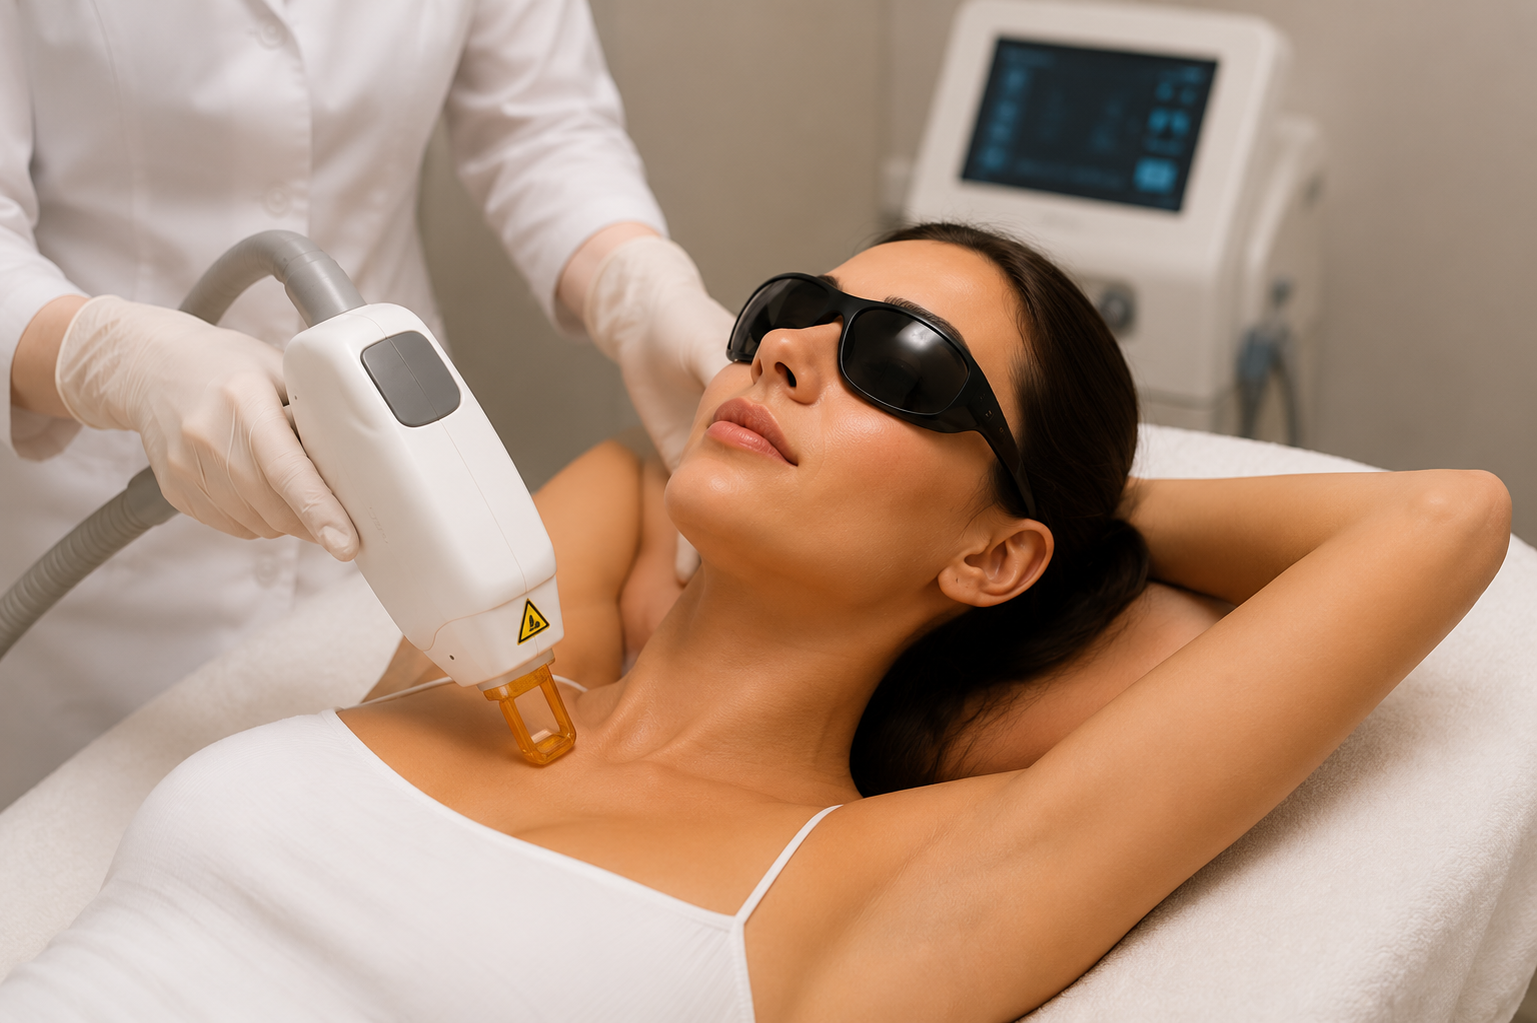
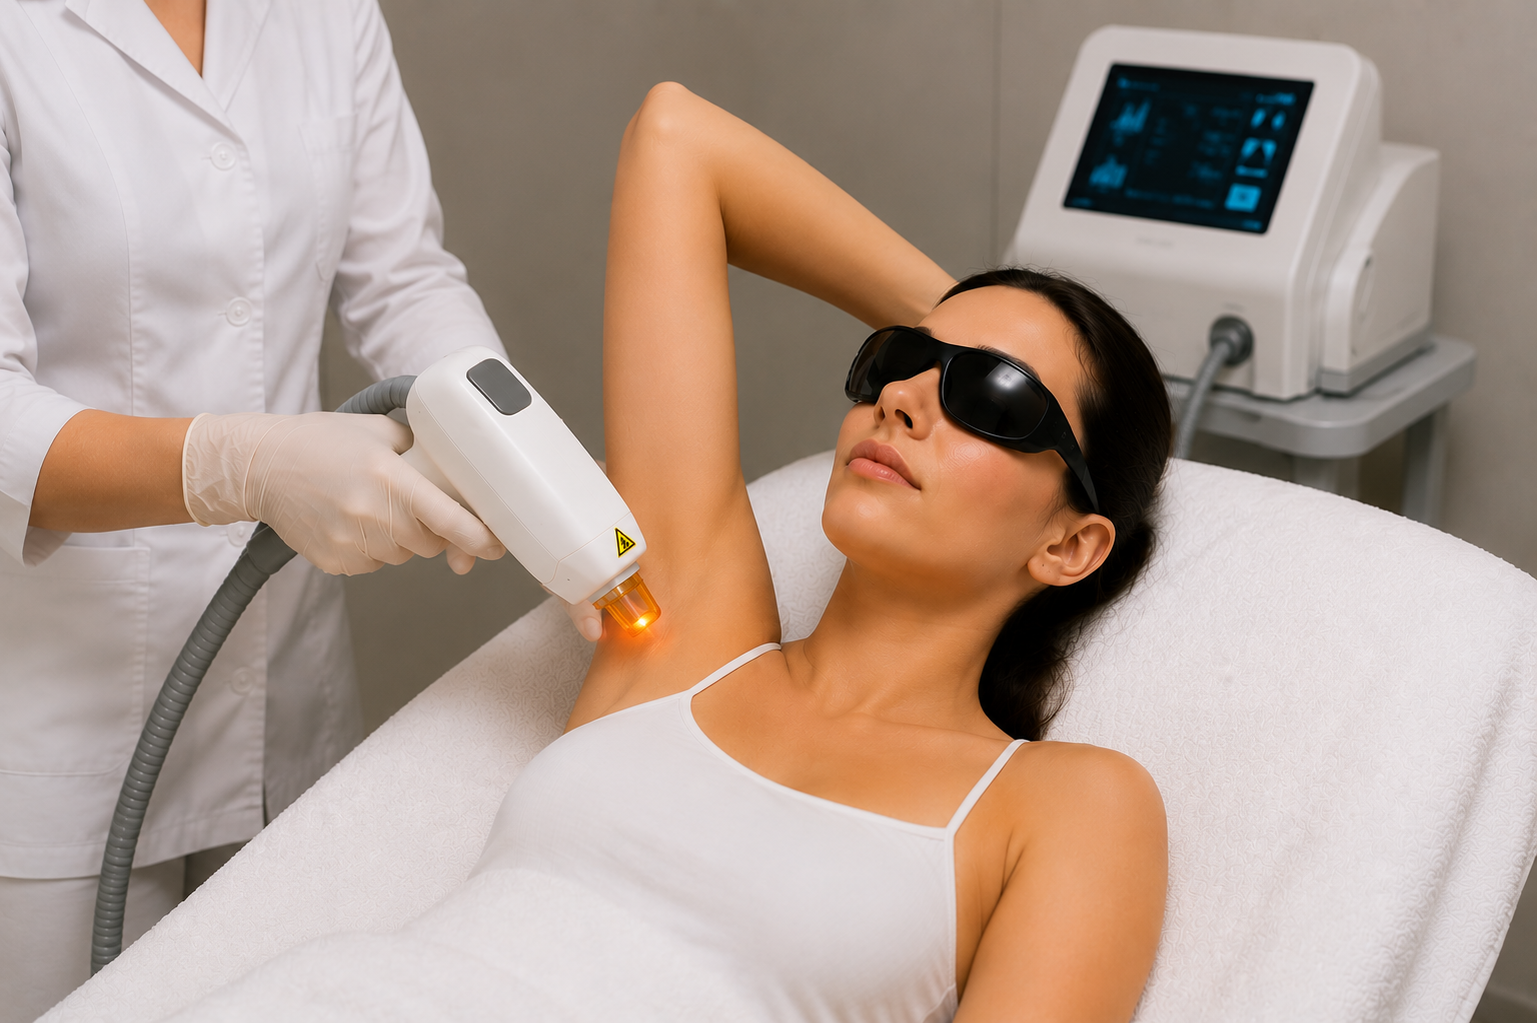
final 1

diff --git a/resources/views/reservation.blade.php b/resources/views/reservation.blade.php
@@ -103,26 +103,41 @@
 
                         <div class="row g-3">
                             <div class="col-md-6">
-                                <input type="text"
-                                       name="client_name"
-                                       placeholder="Nom complet"
-                                       class="form-control"
-                                       required>
+                                <input 
+                                    type="text" 
+                                    name="client_name" 
+                                    placeholder="Nom complet" 
+                                    class="form-control"
+                                    pattern="^[A-Za-zÀ-ÿ\s'-]+$"
+                                    title="Le nom doit contenir uniquement des lettres."
+                                    required
+                                >
                             </div>
 
                             <div class="col-md-6">
-                                <input type="text"
-                                       name="phone"
-                                       placeholder="Téléphone"
-                                       class="form-control"
-                                       required>
+                                <input 
+                                    type="tel" 
+                                    name="phone" 
+                                    placeholder="Téléphone" 
+                                    class="form-control"
+                                    pattern="^[0-9]{10}$"
+                                    maxlength="10"
+                                    inputmode="numeric"
+                                    title="Le téléphone doit contenir exactement 10 chiffres."
+                                    required
+                                >
                             </div>
 
                             <div class="col-12">
-                                <input type="email"
-                                       name="email"
-                                       placeholder="Email"
-                                       class="form-control">
+                                <input 
+                                    type="email" 
+                                    name="email" 
+                                    placeholder="Email" 
+                                    class="form-control"
+                                    pattern="^[^\s@]+@[^\s@]+\.[^\s@]+$"
+                                    title="Veuillez saisir un email valide sans espaces."
+                                    required
+                                >
                             </div>
                         </div>
 
@@ -182,6 +197,26 @@
 </section>
 <script>
     window.servicesData = @json($services);
+</script>
+
+<script>
+document.addEventListener("DOMContentLoaded", function () {
+    const nameInput = document.querySelector('input[name="client_name"]');
+    const phoneInput = document.querySelector('input[name="phone"]');
+    const emailInput = document.querySelector('input[name="email"]');
+
+    nameInput.addEventListener("input", function () {
+        this.value = this.value.replace(/[0-9]/g, "");
+    });
+
+    phoneInput.addEventListener("input", function () {
+        this.value = this.value.replace(/[^0-9]/g, "").slice(0, 10);
+    });
+
+    emailInput.addEventListener("input", function () {
+        this.value = this.value.replace(/\s/g, "");
+    });
+});
 </script>
 
 @endsection

diff --git a/resources/views/admin/appointments.blade.php b/resources/views/admin/appointments.blade.php
@@ -59,17 +59,39 @@
 
                 <div class="col-md-4">
                     <label>Nom client</label>
-                    <input type="text" name="client_name" class="form-control" required>
+                    <input 
+                        type="text" 
+                        name="client_name" 
+                        class="form-control"
+                        pattern="^[A-Za-zÀ-ÿ\s'-]+$"
+                        title="Le nom doit contenir uniquement des lettres."
+                        required
+                    >
                 </div>
 
                 <div class="col-md-4">
                     <label>Téléphone</label>
-                    <input type="text" name="phone" class="form-control" required>
+                    <input 
+                        type="tel" 
+                        name="phone" 
+                        class="form-control"
+                        pattern="^[0-9]{10}$"
+                        maxlength="10"
+                        inputmode="numeric"
+                        title="Le téléphone doit contenir exactement 10 chiffres."
+                        required
+                    >
                 </div>
 
                 <div class="col-md-8">
                     <label>Email</label>
-                    <input type="email" name="email" class="form-control">
+                    <input 
+                        type="email" 
+                        name="email" 
+                        class="form-control"
+                        pattern="^[^\s@]+@[^\s@]+\.[^\s@]+$"
+                        title="Veuillez saisir un email valide sans espaces."
+                    >
                 </div>
 
                 <div class="col-md-4 d-flex align-items-end">
@@ -222,4 +244,31 @@
         });
     });
 </script>
+
+<script>
+document.addEventListener("DOMContentLoaded", function () {
+    const nameInput = document.querySelector('input[name="client_name"]');
+    const phoneInput = document.querySelector('input[name="phone"]');
+    const emailInput = document.querySelector('input[name="email"]');
+
+    if (nameInput) {
+        nameInput.addEventListener("input", function () {
+            this.value = this.value.replace(/[0-9]/g, "");
+        });
+    }
+
+    if (phoneInput) {
+        phoneInput.addEventListener("input", function () {
+            this.value = this.value.replace(/[^0-9]/g, "").slice(0, 10);
+        });
+    }
+
+    if (emailInput) {
+        emailInput.addEventListener("input", function () {
+            this.value = this.value.replace(/\s/g, "");
+        });
+    }
+});
+</script>
+
 @endsection
